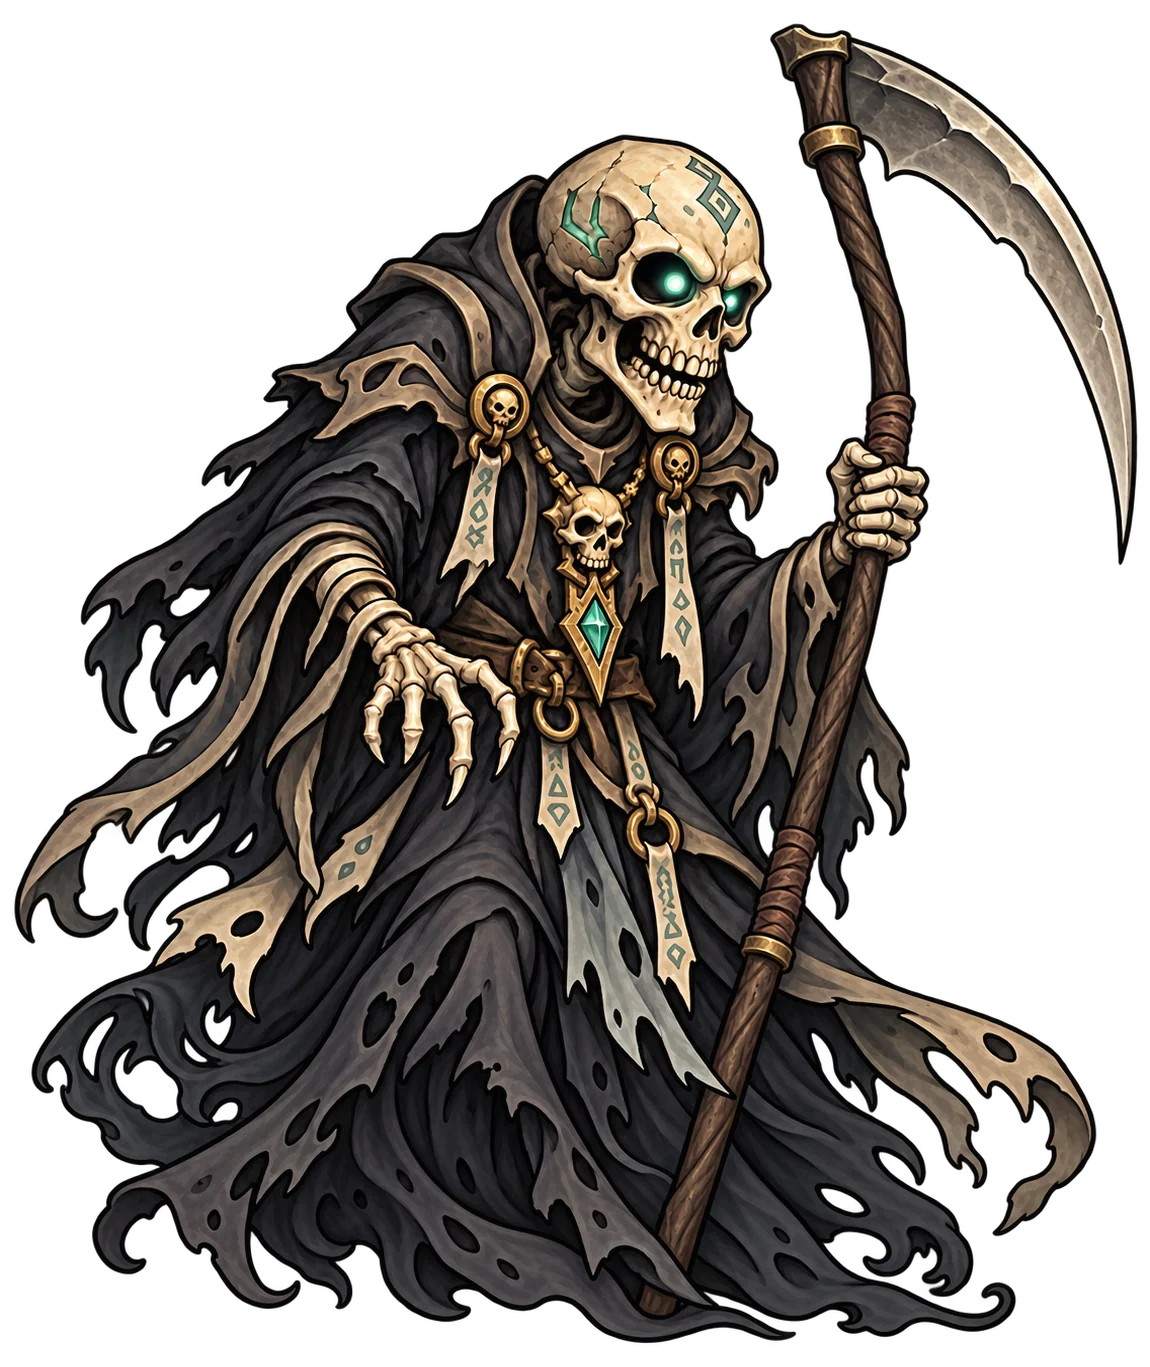
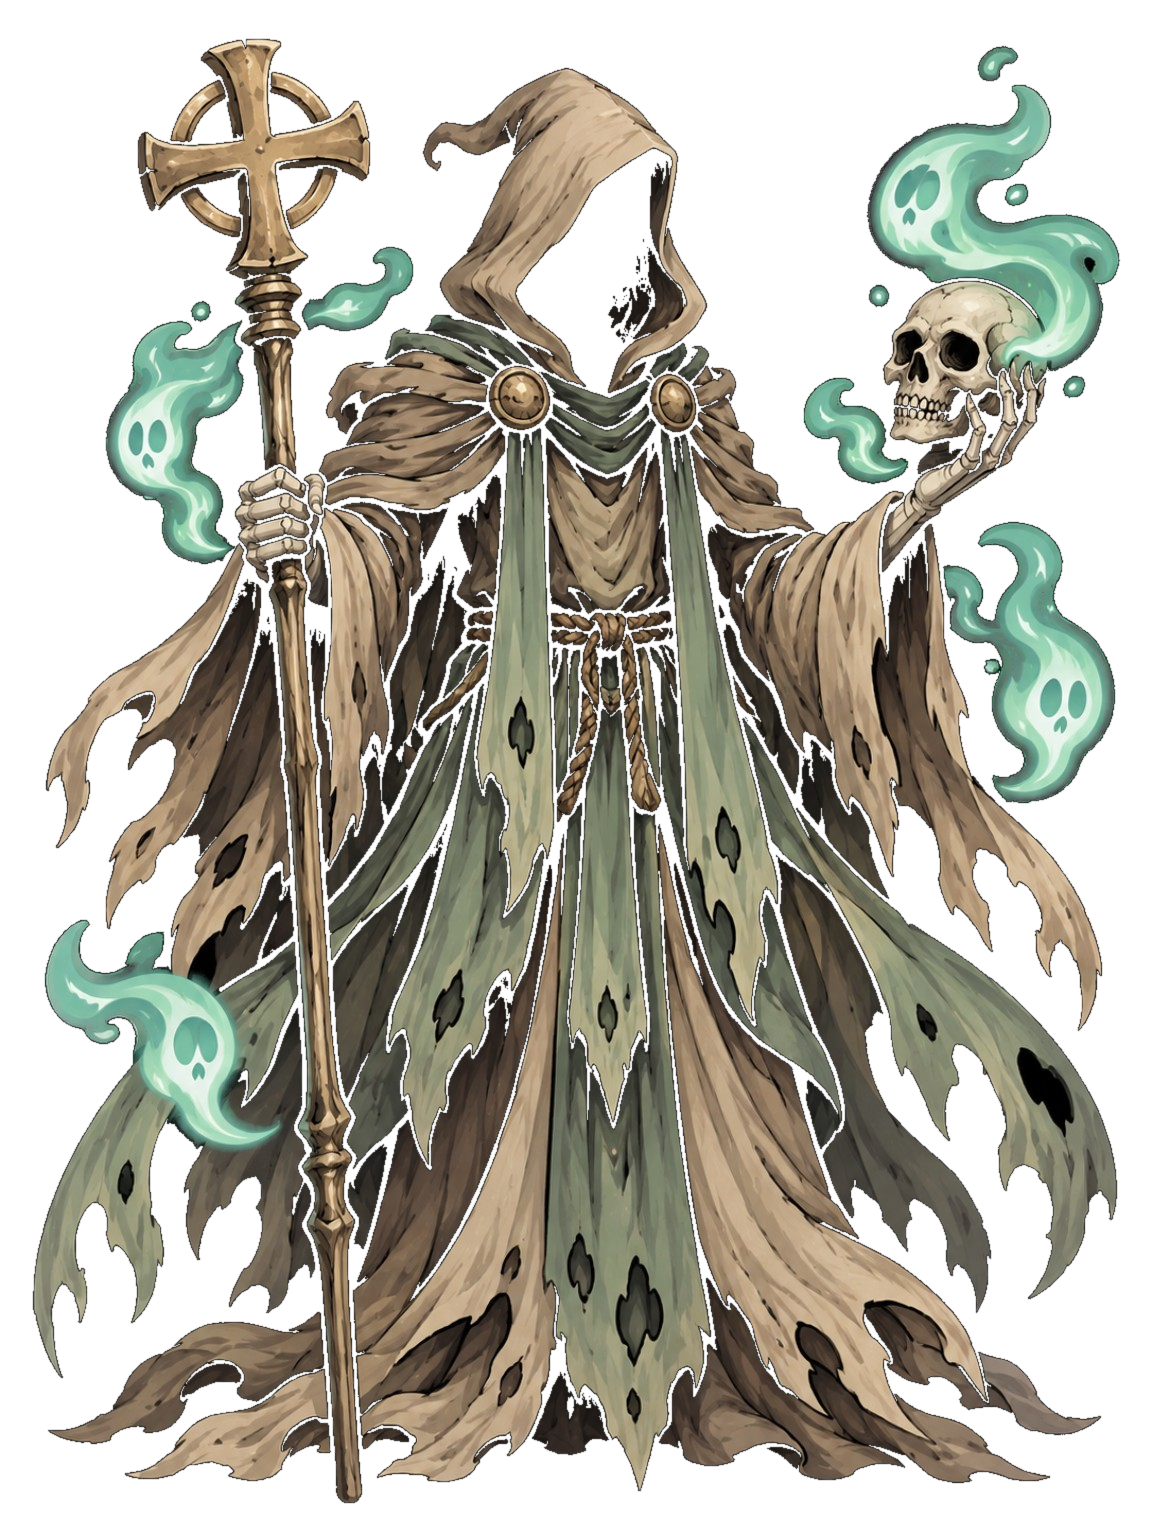
Apply 8 approved monster portraits: 7 new layered cards and lich replacement

diff --git a/docs/card_art_eight_20261020.md b/docs/card_art_eight_20261020.md
@@ -1,0 +1,17 @@
+# Eight approved card art originals — 2026-10-20
+Original user PNGs 5818–5825 are preserved in Google Drive `네크로멘서 앤드 다이스/카드원화_8종_20261020`. No image synthesis or repainting was used: remove black matte programmatically, create transparent lossless WebP. Original in-game animated sprites and flattened legacy hit textures are not altered.
+
+Seven new layered cards and **one existing portrait replacement (`soul-reaper`)**: total 32→39 layered monster cards. The previous `soul-reaper` entry and its legion background are preserved as mappings; only the WebP bytes are replaced.
+
+| Source PNG | Unit slug | WebP asset | Git blob SHA-1 | SHA-256 |
+|---|---|---|---|---|
[8 lines of base64/hex data omitted]
+
+Run `scripts/test_layered_unit_cards.gd` (including soul-harvest choices and book animation), Godot parse/import, card handoff/combat regression and visual smoke test. Previously failing unrelated story chain is kept out of this art change.
